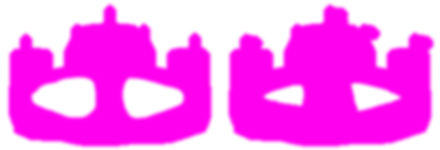
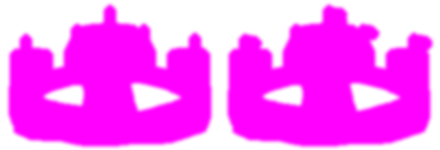
Added castle textures with replaceable colors. Highlight is now colored. CST-64

diff --git a/core/src/main/java/de/incub8/castra/core/actor/Settlement.java b/core/src/main/java/de/incub8/castra/core/actor/Settlement.java
@@ -15,12 +15,15 @@ import com.badlogic.gdx.utils.Align;
 import de.incub8.castra.core.Castra;
 import de.incub8.castra.core.font.FontProvider;
 import de.incub8.castra.core.model.Player;
+import de.incub8.castra.core.model.PlayerColor;
 import de.incub8.castra.core.model.SettlementSize;
 import de.incub8.castra.core.texture.ColorizingTextureAtlasAdapter;
 
 public class Settlement extends Group
 {
-    private static final int IMAGE_COLUMNS = 4;
+    private static final PlayerColor HIGHLIGHT_COLOR = new PlayerColor(new Color(0xc8c8c8ff), new Color(0x4b4b4bff));
+    private static final int IMAGE_COLUMNS = 2;
+    
     private final Image image;
     private final Image highlight;
     private final Label label;
@@ -163,8 +166,8 @@ public class Settlement extends Group
 
     private TextureRegion getHighlightTexture()
     {
-        Texture allHighlights = textureAtlas.findRegion(size.getHighlightTextureName()).getTexture();
-        int width = allHighlights.getWidth() / 2;
+        Texture allHighlights = textureAtlas.findRegion(size.getHighlightTextureName(), HIGHLIGHT_COLOR).getTexture();
+        int width = allHighlights.getWidth() / IMAGE_COLUMNS;
         int height = allHighlights.getHeight();
         TextureRegion[][] highlights = TextureRegion.split(allHighlights, width, height);
         TextureRegion highlight;

diff --git a/core/src/main/java/de/incub8/castra/core/Castra.java b/core/src/main/java/de/incub8/castra/core/Castra.java
@@ -56,9 +56,9 @@ public class Castra extends Game
         addToAtlas("army", result);
         addToAtlas("Background128", result);
         addToAtlas("cloud", result);
-        addToAtlas("LargeCastles", result);
-        addToAtlas("MediumCastles", result);
-        addToAtlas("SmallCastles", result);
+        addToAtlas("LargeCastle", result);
+        addToAtlas("MediumCastle", result);
+        addToAtlas("SmallCastle", result);
         addToAtlas("LargeShadow", result);
         addToAtlas("MediumShadow", result);
         addToAtlas("SmallShadow", result);

diff --git a/core/src/main/java/de/incub8/castra/core/model/SettlementSize.java b/core/src/main/java/de/incub8/castra/core/model/SettlementSize.java
@@ -8,9 +8,9 @@ import lombok.RequiredArgsConstructor;
 @Getter
 public enum SettlementSize
 {
-    SMALL(3, "SmallCastles", "SmallShadow"),
-    MEDIUM(2, "MediumCastles", "MediumShadow"),
-    LARGE(1, "LargeCastles", "LargeShadow");
+    SMALL(3, "SmallCastle", "SmallShadow"),
+    MEDIUM(2, "MediumCastle", "MediumShadow"),
+    LARGE(1, "LargeCastle", "LargeShadow");
 
     private final float spawnIntervalInSeconds;
     private final String textureName;
